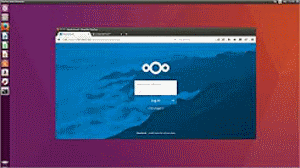
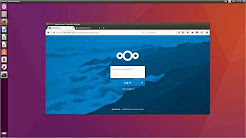
update screenshots of video

diff --git a/web/Content/styles.css b/web/Content/styles.css
@@ -870,13 +870,14 @@ pre.hljs {
     video
 ******************/
 .video-link {
+    background-color: #000;
     cursor: pointer;
     float: right;
-    height: 150px;
+    height: 138px;
     margin: 0 0 20px 20px;
     overflow: hidden;
     position: relative;
-    width: 300px;
+    width: 246px;
 }
 
 .video-link:before,
@@ -890,9 +891,9 @@ pre.hljs {
     background: white;
     content: "";
     height: 93px;
-    left: 103px;
+    left: 76px;
     opacity: 0.3;
-    top: 28px;
+    top: 22px;
     width: 93px;
     border-radius: 50px;
     -moz-border-radius: 50px;
@@ -905,14 +906,18 @@ pre.hljs {
     border-bottom: 28px solid transparent;
     content: "";
     height: 0;
-    left: 130px;
+    left: 103px;
     opacity: 0.8;
-    top: 47px;
+    top: 41px;
     width: 0;
 }
 
 .video-link:hover:after {
     opacity: 1;
+}
+
+.video-link img {
+    opacity: 0.7;
 }
 
 .video-frame {
